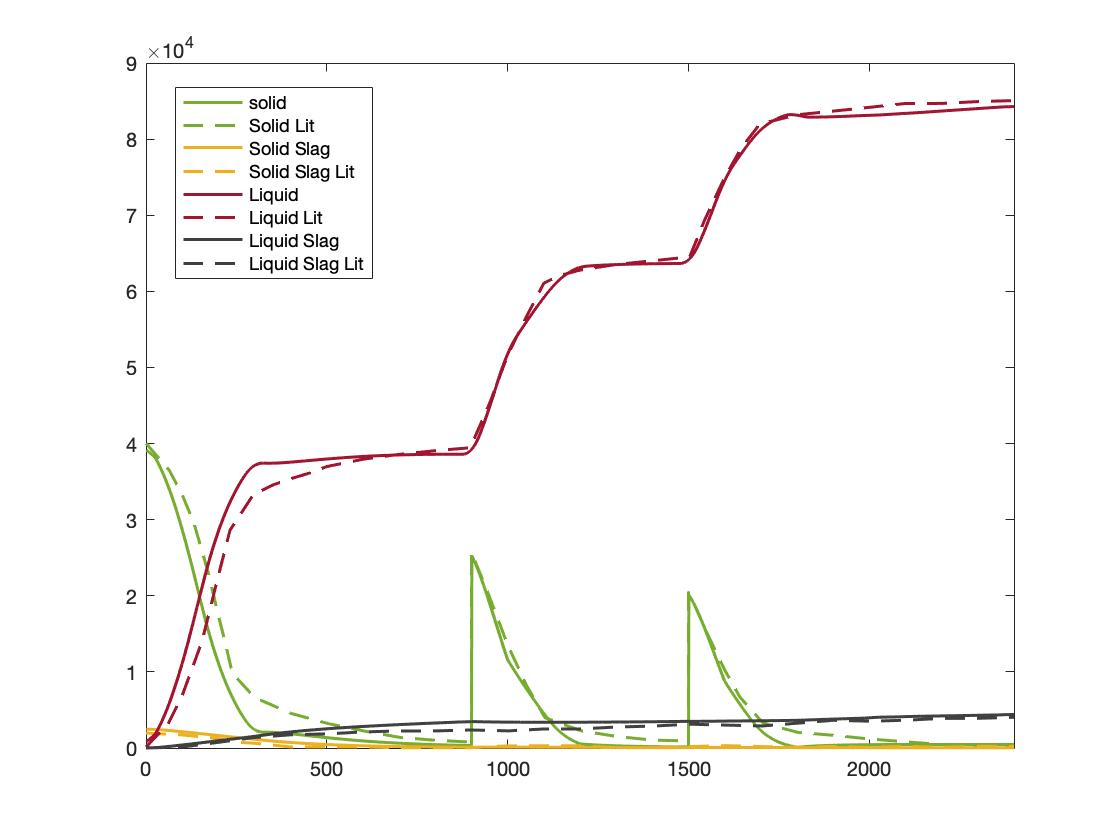
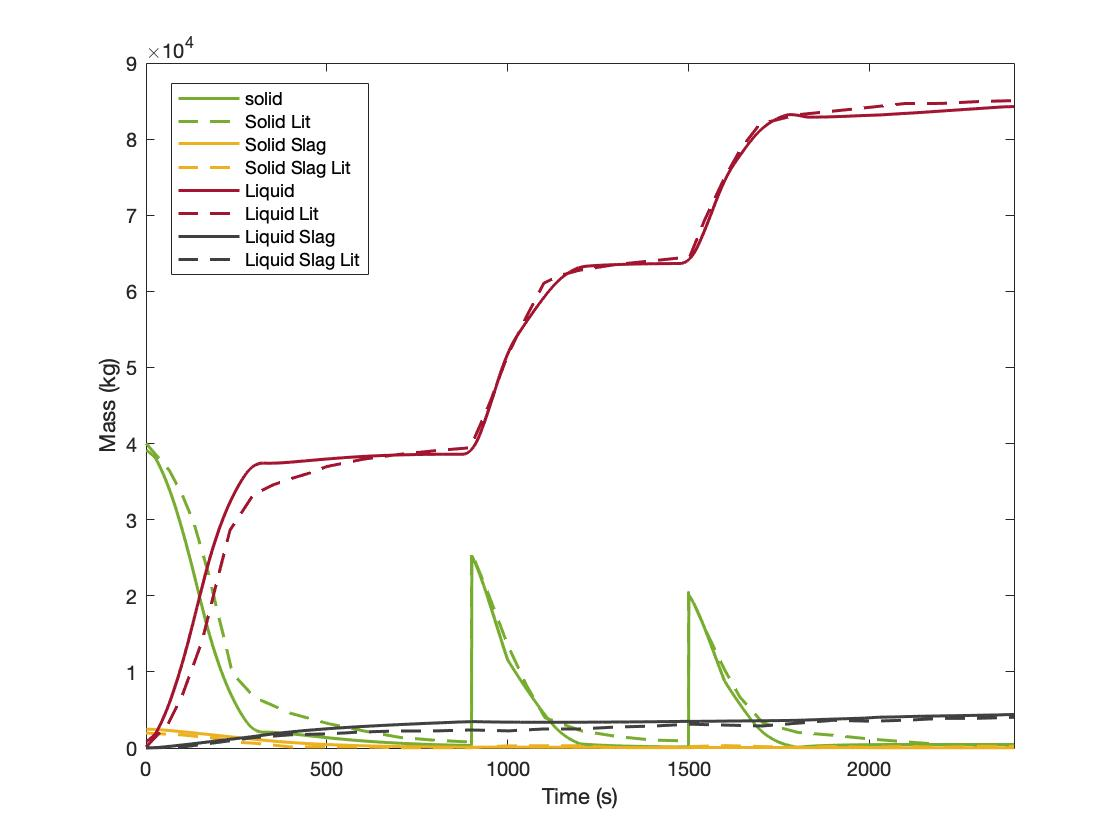
Final

Changed region(s): [[0.1562, 0.0929, 0.3438, 0.3405], [0.4688, 0.9286, 0.5625, 0.9595], [0.0938, 0.4333, 0.125, 0.5262]]

diff --git a/Literature.m b/Literature.m
@@ -11748,6 +11748,8 @@ plot(T_lSl_lit(:,1), T_lSl_lit(:,2), '--', 'color', [0.25, 0.25, 0.25], 'LineWid
 
 legend('Gas', 'Gas Lit', 'Solid Metal', 'Solid Metal Lit', 'Solid Slag', 'Solid Slag Lit', 'Liquid Metal', 'Liquid Metal Lit', 'Liquid Slag', 'Liquid Slag Lit')
 xlim([0 2400])
+xlabel('Time (s)')
+ylabel('Temperature (K)')
 hold off
 
 figure
@@ -11762,4 +11764,6 @@ plot(time, m_liquid_slag, 'color', [0.25, 0.25, 0.25], 'LineWidth', 1.5)
 plot(m_lSl_lit(:,1), m_lSl_lit(:,2), '--', 'color', [0.25, 0.25, 0.25], 'LineWidth', 1.5)
 legend('solid', 'Solid Lit', 'Solid Slag', 'Solid Slag Lit', 'Liquid', 'Liquid Lit', 'Liquid Slag', 'Liquid Slag Lit')
 xlim([0 2400])
+xlabel('Time (s)')
+ylabel('Mass (kg)')
 hold off

diff --git a/Sensitivity/oxy_lance.m b/Sensitivity/oxy_lance.m
@@ -105,7 +105,7 @@ O2_post = 1;
 P_arc = 40000;
 
 % EAF mass capacity (kg)
-m_EAF = 105000;
+m_EAF = 200000;
 
 % Cooling water flowrate (mol/s)
 phi1 = 80/0.018;

diff --git a/eaf_initial_final.m b/eaf_initial_final.m
@@ -98,7 +98,7 @@ O2_post = 1;
 P_arc = 40000;
 
 % EAF mass capacity (kg)
-m_EAF = 105000;
+m_EAF = 200000;
 
 % Cooling water flowrate (mol/s)
 phi1 = 80/0.018;

diff --git a/eaf_option4.m b/eaf_option4.m
@@ -357,7 +357,7 @@ ep4 = 0.40; % lSc
 
 % ------------ Constant Temperatures --------------
 
-T_air = 298;
+T_air = 571;
 T_melt = 1809;
 T_water = 298;
 
